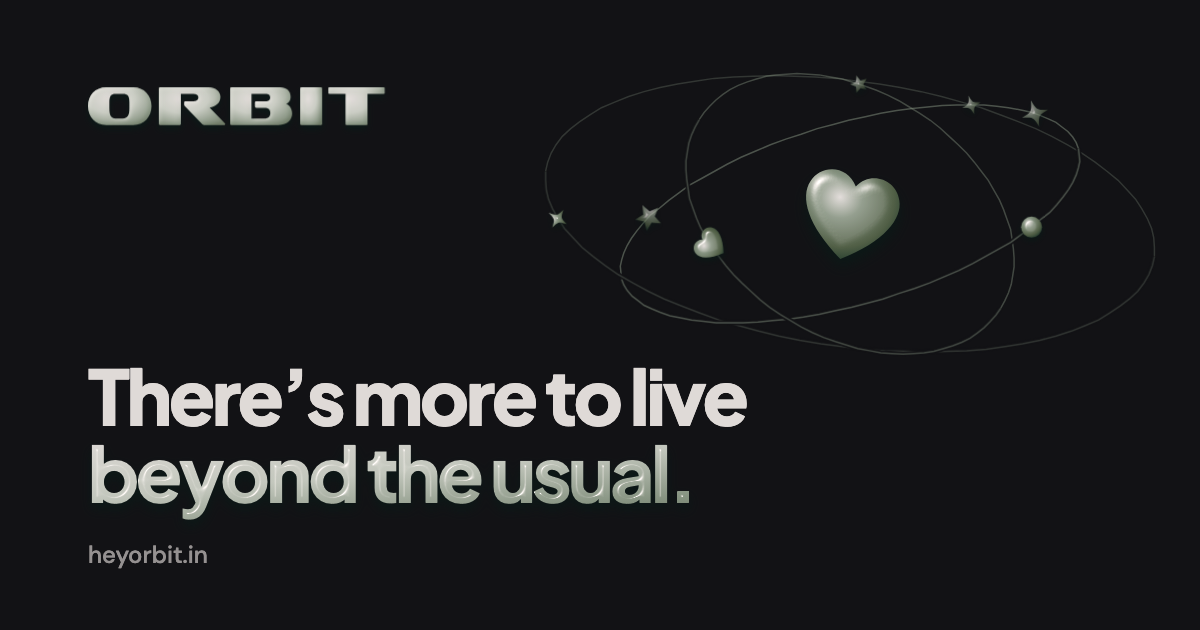
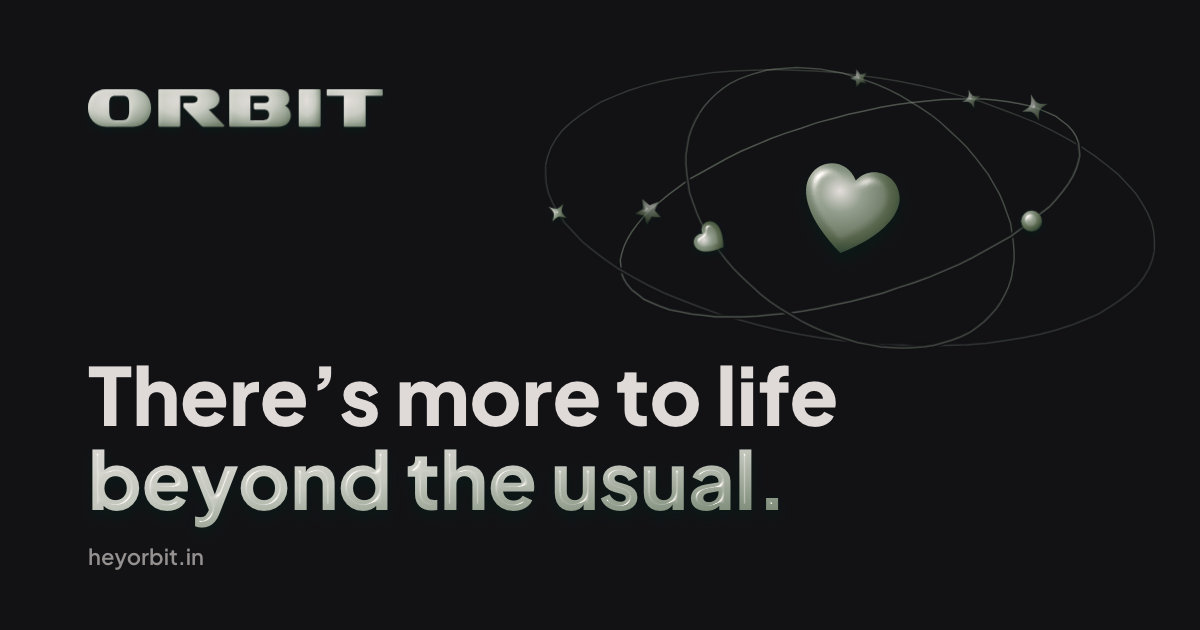
feat(web): the line is "There’s more to life beyond the usual."
Owner, 22 Nov 2026: "change to more to life". The homepage and waitlist
headings, page titles, search and share descriptions, the share text,
llms.txt, the JSON-LD slogan, and the link-preview image (redrawn from the
site's own wordmark, orbits and 3D type at 1200 x 630, with the new line).

diff --git a/web/src/app/site.ts b/web/src/app/site.ts
@@ -7,7 +7,7 @@ export const SITE = "https://heyorbit.in";
 // The search and link-preview descriptions (owner, 18 Nov 2026: "make it seo friendly"): what Orbit has, so search and
 // AI answers can say what it is. They name no place (owner, 21 Nov 2026: was "coming to Hyderabad").
 export const DESCRIPTION =
-  "There’s more to live beyond the usual. Fests in one click, turf, courts and gaming by the hour, hackathons, meetups, and the comedians and bands you love, on Orbit.";
+  "There’s more to life beyond the usual. Fests in one click, turf, courts and gaming by the hour, hackathons, meetups, and the comedians and bands you love, on Orbit.";
 export const WAITLIST_DESCRIPTION =
   "Join the Orbit waitlist for fests in one click, turf, courts and gaming by the hour, hackathons, meetups, and the comedians and bands you love.";
 
@@ -39,5 +39,5 @@ export const OPEN_GRAPH = {
   type: "website" as const,
   siteName: "Orbit",
   locale: "en_IN",
-  images: [{ url: "/opengraph-image.png", width: 1200, height: 630, alt: "Orbit: There’s more to live beyond the usual." }],
+  images: [{ url: "/opengraph-image.png", width: 1200, height: 630, alt: "Orbit: There’s more to life beyond the usual." }],
 };

diff --git a/web/src/app/layout.tsx b/web/src/app/layout.tsx
@@ -17,12 +17,12 @@ const script = Sacramento({ variable: "--font-script", subsets: ["latin"], weigh
 // twitter-image.png), made from the page's own drawing; Next adds its tags.
 export const metadata: Metadata = {
   metadataBase: new URL(SITE),
-  title: { default: "Orbit: There’s more to live beyond the usual.", template: "%s · Orbit" },
+  title: { default: "Orbit: There’s more to life beyond the usual.", template: "%s · Orbit" },
   description: DESCRIPTION,
   applicationName: "Orbit",
   alternates: { canonical: "/" },
-  openGraph: { ...OPEN_GRAPH, url: "/", title: "Orbit: There’s more to live beyond the usual.", description: DESCRIPTION },
-  twitter: { card: "summary_large_image", site: X_HANDLE, title: "Orbit: There’s more to live beyond the usual.", description: DESCRIPTION },
+  openGraph: { ...OPEN_GRAPH, url: "/", title: "Orbit: There’s more to life beyond the usual.", description: DESCRIPTION },
+  twitter: { card: "summary_large_image", site: X_HANDLE, title: "Orbit: There’s more to life beyond the usual.", description: DESCRIPTION },
   formatDetection: { telephone: false },
 };
 

diff --git a/web/src/app/page.tsx b/web/src/app/page.tsx
@@ -43,7 +43,7 @@ export default function Home() {
         <div className={base.copy}>
           <Orbits className={base.art} />
           <h1 className={base.line}>
-            There’s more to live{" "}
+            There’s more to life{" "}
             <span className={base.deep} style={{ backgroundImage: deepType }}>
               beyond the usual.
             </span>
@@ -171,7 +171,7 @@ const LD = {
       name: "Orbit",
       url: SITE,
       logo: `${SITE}/apple-icon.png`,
-      slogan: "There’s more to live beyond the usual.",
+      slogan: "There’s more to life beyond the usual.",
       description: DESCRIPTION,
       areaServed: { "@type": "Country", name: "India" },
       sameAs: SOCIAL.map(([, url]) => url),

diff --git a/web/src/app/waitlist/form.tsx b/web/src/app/waitlist/form.tsx
@@ -46,7 +46,7 @@ function Share() {
   const [said, say] = useState<string>();
   async function share() {
     const url = `${location.origin}/waitlist?utm_source=waitlist&utm_medium=share`;
-    const text = "I’m on the Orbit waitlist. There’s more to live beyond the usual.";
+    const text = "I’m on the Orbit waitlist. There’s more to life beyond the usual.";
     try {
       if (navigator.share) return await navigator.share({ title: "Orbit", text, url });
     } catch (e) {

diff --git a/web/src/app/waitlist/page.tsx b/web/src/app/waitlist/page.tsx
@@ -35,7 +35,7 @@ export default function WaitlistPage() {
         <div className={styles.copy}>
           <Orbits className={styles.art} />
           <h1 className={styles.line}>
-            There’s more to live{" "}
+            There’s more to life{" "}
             <span className={styles.deep} style={{ backgroundImage: deepType }}>
               beyond the usual.
             </span>
